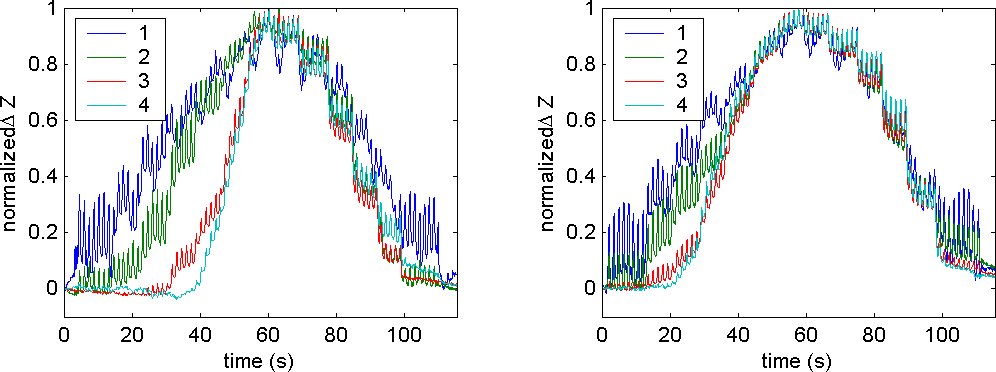
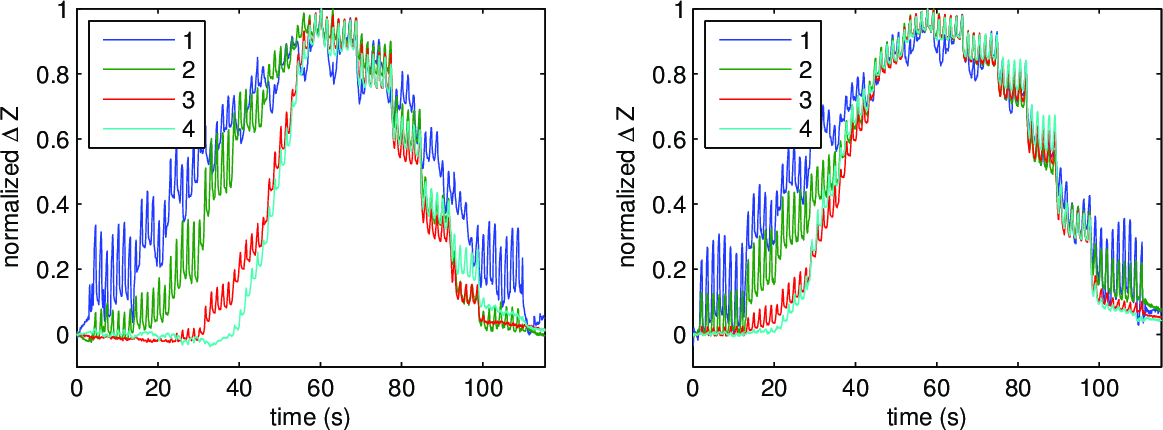
convert to print_convert
git-svn-id: svn://svn.code.sf.net/p/eidors3d/code/trunk@2765 82006732-fb7e-4a22-9f28-86a212cce563

diff --git a/htdocs/tutorial/lung_EIT/if_peep_trial01.m b/htdocs/tutorial/lung_EIT/if_peep_trial01.m
@@ -13,4 +13,4 @@ set(hh,'Rotation',90,'HorizontalAlignment','Center');
 hh=text(0,+1.1,'Ventral');
 set(hh,'HorizontalAlignment','Center');
 
-print -r150 -dpng if_peep_trial01.png
+print_convert if_peep_trial01.png

diff --git a/htdocs/tutorial/lung_EIT/if_peep_trial04.m b/htdocs/tutorial/lung_EIT/if_peep_trial04.m
@@ -23,4 +23,4 @@ for loop = 1:2;
    ylabel('normalized \Delta Z')
 end
 
-print -dpng -r150 if_peep_trial04.png
+print_convert if_peep_trial04.png '-density 175'

diff --git a/htdocs/tutorial/lung_EIT/if_peep_trial03.m b/htdocs/tutorial/lung_EIT/if_peep_trial03.m
@@ -16,4 +16,4 @@ for yl = 1:4;
 end
 
 axis off
-print -r100 -dpng if_peep_trial03.png
+print_convert if_peep_trial03.png
